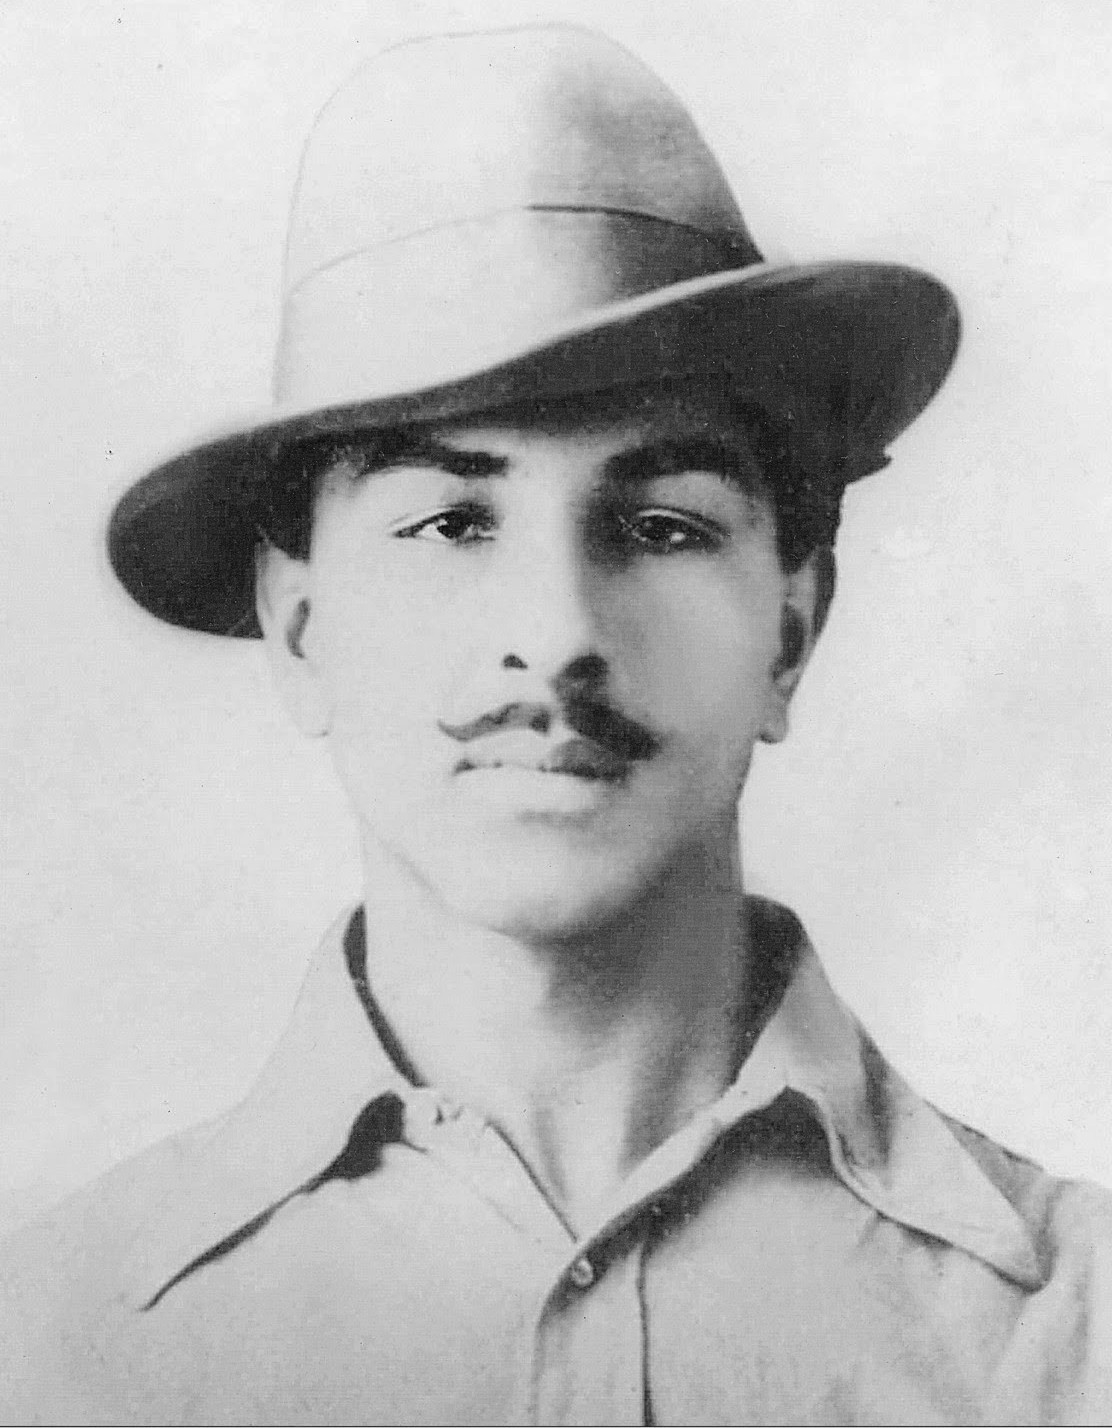
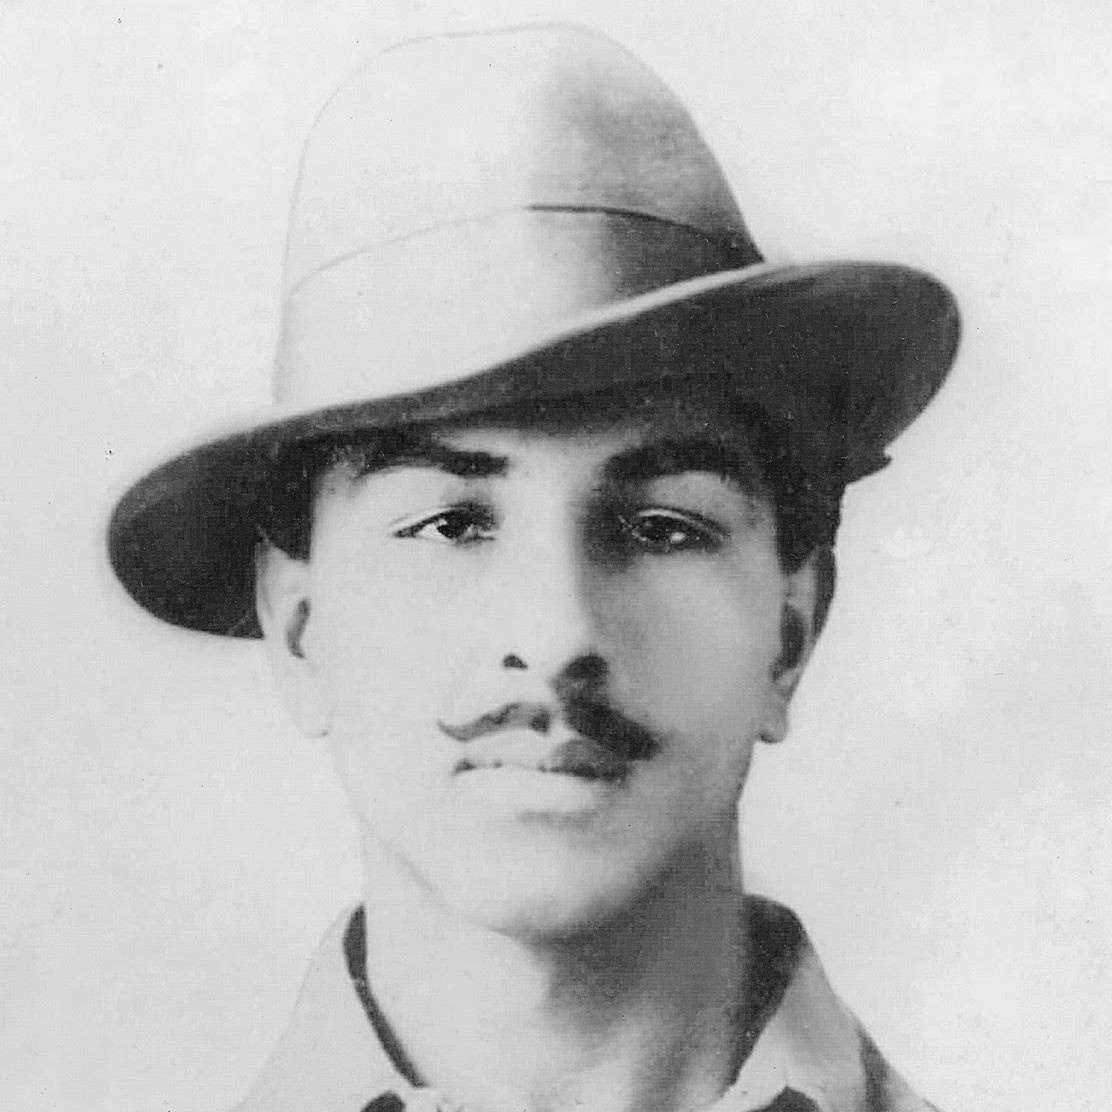
Fixed hover issue. Also cropped profile pictures for perfect circles on cards.

diff --git a/index.html b/index.html
@@ -197,8 +197,8 @@
         </div>
     </section>
 
-    <!-- REVIEW SECTION --> <!-- FIX ME: FIX SCSS STYLESHEET REVIEW SECTION; CARD HOVER FUNCTION NOT WORKING -->
-    <section id="reviews" class= "my-5 text-center"> 
+    <!-- REVIEW SECTION -->
+    <section id="reviews" class= "my-5 mx-5 text-center"> 
         <div class="container">
             <div class="row">
                 <div class="col">
@@ -220,7 +220,7 @@
                     <div class="card-body">
                         <img src="img/proPic1.jpg" alt="A painting of Karl Marx. It's a 3/4 side shot with him looking to the right. He has white hair on his head and beard but his moustache is black." class="img-fluid rounded-circle w-50 mb-3">
                         <h3>Karl Marx</h3>
-                        <h5 class="text-primary">Author</h5>
+                        <h5 class="text-secondary">Author</h5>
                         <p>Lorem ipsum dolor sit amet consectetur, adipisicing elit. Fugiat facilis obcaecati ab voluptatibus doloremque dicta.</p>
                         <div class="d-flex justify-content-center">
                             <div class="p-4">
@@ -248,7 +248,7 @@
                     <div class="card-body">
                         <img src="img/proPic2.jpg" alt="A black and white portrait picture of Friedrich Engels. He has a very big beard and a huge handlebar mustache" class="img-fluid rounded-circle w-50 mb-3">
                         <h3>Friedrich Engels</h3>
-                        <h5 class="text-primary">Author</h5>
+                        <h5 class="text-secondary">Author</h5>
                         <p>Lorem ipsum dolor sit amet consectetur, adipisicing elit. Fugiat facilis obcaecati ab voluptatibus doloremque dicta.</p>
                         <div class="d-flex justify-content-center">
                             <div class="p-4">
@@ -276,7 +276,7 @@
                     <div class="card-body">
                         <img src="img/proPic3.jpg" alt="A black and white portrait of Leon Trotsky. He is wearing circular eyeglasses with a black frame. His facial hairstyle resembles a van-dyke style." class="img-fluid rounded-circle w-50 mb-3">
                         <h3>Leon Trotsky</h3>
-                        <h5 class="text-primary">Revolutionary/Politician</h5>
+                        <h5 class="text-secondary">Revolutionary/Politician</h5>
                         <p>Lorem ipsum dolor sit amet consectetur, adipisicing elit. Fugiat facilis obcaecati ab voluptatibus doloremque dicta.</p>
                         <div class="d-flex justify-content-center">
                             <div class="p-4">
@@ -304,7 +304,7 @@
                     <div class="card-body">
                         <img src="img/proPic4.jpg" alt="A black and white portrait of Bhagat Singh. He has a handlebar moustache and is wearing a hat." class="img-fluid rounded-circle w-50 mb-3">
                         <h3>Bhagat Singh</h3>
-                        <h5 class="text-primary">Revolutionary/Freedom-fighter</h5>
+                        <h5 class="text-secondary">Revolutionary/Freedom-fighter</h5>
                         <p>Lorem ipsum dolor sit amet consectetur, adipisicing elit. Fugiat facilis obcaecati ab voluptatibus doloremque dicta.</p>
                         <div class="d-flex justify-content-center">
                             <div class="p-4">

diff --git a/scss/style.scss b/scss/style.scss
@@ -43,13 +43,14 @@ body{
 
 }
 
-#reviews { // FIX ME: HOVER NOT WORKING!
+#reviews {
     img {
         margin-top: -50px;
     }
-    .card-hover {
-        background: #fff;
+    .card:hover {
+        background: $primary;
         color: $secondary;
+        
     }
 
     .fa{

diff --git a/css/style.css b/css/style.css
@@ -29,8 +29,8 @@ body {
 
 #reviews img {
   margin-top: -50px; }
-#reviews .card-hover {
-  background: #fff;
+#reviews .card:hover {
+  background: #dc3545;
   color: #ffc107; }
 #reviews .fa {
   color: #ffc107; }
